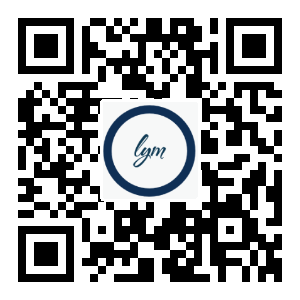
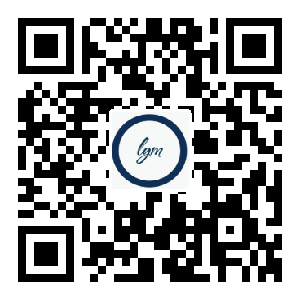
增加可以指定logo大小的方法

Changed region(s): [[0.33, 0.33, 0.69, 0.69]]

diff --git a/src/main/java/com/lym/qrcode/EncodeQrCodeUtil.java b/src/main/java/com/lym/qrcode/EncodeQrCodeUtil.java
@@ -39,10 +39,12 @@ public class EncodeQrCodeUtil {
      * @param width 二维码宽
      * @param height 二维码高
      * @param logoImgPath logo
+     * @param logoWidth logo图片宽
+     * @param logoHeight logo图片高
      * @param needCompress logo是否压缩
      * @return BufferedImage
      */
-    public static BufferedImage createQrCode(String content, int width, int height, String logoImgPath, boolean needCompress) throws WriterException, IOException {
+    public static BufferedImage createQrCode(String content, int width, int height, String logoImgPath, Integer logoWidth, Integer logoHeight, boolean needCompress) throws WriterException, IOException {
         Map<EncodeHintType, Object> hints = new ConcurrentHashMap<>();
         // 二维码容错等级
         hints.put(EncodeHintType.ERROR_CORRECTION, ErrorCorrectionLevel.H);
@@ -69,7 +71,7 @@ public class EncodeQrCodeUtil {
         }
 
         // 插入logo图片
-        EncodeQrCodeUtil.insertImage(image, logoImgPath, needCompress);
+        EncodeQrCodeUtil.insertImage(image, logoImgPath, logoWidth, logoHeight, needCompress);
 
         return image;
     }
@@ -79,10 +81,12 @@ public class EncodeQrCodeUtil {
      * 插入LOGO
      * @param source 原二维码
      * @param logoImgPath logo
+     * @param logoWidth logo宽
+     * @param logoHeight logo高
      * @param needCompress 是否需要压缩logo
      * @throws IOException
      */
-    private static void insertImage(BufferedImage source, String logoImgPath, boolean needCompress) throws IOException {
+    private static void insertImage(BufferedImage source, String logoImgPath, Integer logoWidth, Integer logoHeight, boolean needCompress) throws IOException {
         File file = new File(logoImgPath);
         if (!file.exists()) {
             return;
@@ -91,6 +95,14 @@ public class EncodeQrCodeUtil {
         Image src = ImageIO.read(file);
         int width = src.getWidth(null);
         int height = src.getHeight(null);
+
+        // 使用指定的logo大小
+        if (logoWidth != null && logoWidth > 0) {
+            width = logoWidth;
+        }
+        if (logoHeight != null && logoHeight > 0) {
+            height = logoHeight;
+        }
 
         // 压缩logo
         if (needCompress) {
@@ -115,7 +127,25 @@ public class EncodeQrCodeUtil {
 
 
     /**
-     * 生成带logo的二维码
+     * 生成带logo的二维码（指定logo宽高）
+     * @param content
+     * @param width
+     * @param height
+     * @param logoImgPath
+     * @param destPath
+     * @param needCompress
+     * @throws WriterException
+     * @throws IOException
+     */
+    public static void encode(String content, int width, int height, String logoImgPath, Integer logoWidth, Integer logoHeight, String destPath, boolean needCompress) throws WriterException, IOException {
+        BufferedImage image = EncodeQrCodeUtil.createQrCode(content, width, height, logoImgPath, logoWidth, logoHeight, needCompress);
+        FileUtil.mkdirs(destPath);
+        ImageIO.write(image, FORMAT, new File(destPath));
+    }
+
+
+    /**
+     * 生成带logo的二维码（不指定logo宽高，使用logo默认宽高）
      * @param content
      * @param width
      * @param height
@@ -126,7 +156,7 @@ public class EncodeQrCodeUtil {
      * @throws IOException
      */
     public static void encode(String content, int width, int height, String logoImgPath, String destPath, boolean needCompress) throws WriterException, IOException {
-        BufferedImage image = EncodeQrCodeUtil.createQrCode(content, width, height, logoImgPath, needCompress);
+        BufferedImage image = EncodeQrCodeUtil.createQrCode(content, width, height, logoImgPath, null, null, needCompress);
         FileUtil.mkdirs(destPath);
         ImageIO.write(image, FORMAT, new File(destPath));
     }
@@ -147,7 +177,24 @@ public class EncodeQrCodeUtil {
 
 
     /**
-     * 生成带logo的二维码，并输出到指定的输出流
+     * 生成带logo的二维码，并输出到指定的输出流（指定logo宽高）
+     * @param content
+     * @param width
+     * @param height
+     * @param logoImgPath
+     * @param output
+     * @param needCompress
+     * @throws WriterException
+     * @throws IOException
+     */
+    public static void encode(String content, int width, int height, String logoImgPath, Integer logoWidth, Integer logoHeight, OutputStream output, boolean needCompress) throws WriterException, IOException {
+        BufferedImage image = EncodeQrCodeUtil.createQrCode(content, width, height, logoImgPath, logoWidth, logoHeight, needCompress);
+        ImageIO.write(image, FORMAT, output);
+    }
+
+
+    /**
+     * 生成带logo的二维码，并输出到指定的输出流（不指定logo宽高）
      * @param content
      * @param width
      * @param height
@@ -158,7 +205,7 @@ public class EncodeQrCodeUtil {
      * @throws IOException
      */
     public static void encode(String content, int width, int height, String logoImgPath, OutputStream output, boolean needCompress) throws WriterException, IOException {
-        BufferedImage image = EncodeQrCodeUtil.createQrCode(content, width, height, logoImgPath, needCompress);
+        BufferedImage image = EncodeQrCodeUtil.createQrCode(content, width, height, logoImgPath, null, null, needCompress);
         ImageIO.write(image, FORMAT, output);
     }
 

diff --git a/src/test/java/com/lym/qrcode/EncodeQrCodeUtilTest.java b/src/test/java/com/lym/qrcode/EncodeQrCodeUtilTest.java
@@ -26,11 +26,28 @@ public class EncodeQrCodeUtilTest {
         directory = logoPath.substring(0, logoPath.lastIndexOf(File.separator) + 1);
     }
 
+    /**
+     * 生成二维码，指定二维码的宽高和logo的宽高
+     * @throws IOException
+     * @throws WriterException
+     */
     @Test
     public void testEncode() throws IOException, WriterException {
         String content = "https://github.com/liuyanmin";
         String destPath = directory + "qrcode.png";
-        EncodeQrCodeUtil.encode(content, 300, 300, logoPath, destPath, true);
+        EncodeQrCodeUtil.encode(content, 300, 300, logoPath, 80, 80, destPath, true);
+    }
+
+    /**
+     * 生成二维码，指定二维码的宽高，不指定logo的宽高
+     * @throws IOException
+     * @throws WriterException
+     */
+    @Test
+    public void  testEncode2() throws IOException, WriterException {
+        String content = "https://github.com/liuyanmin";
+        String destPath = directory + "qrcode.png";
+        EncodeQrCodeUtil.encode(content, 300, 300, logoPath, null, null, destPath, true);
     }
 
 }
